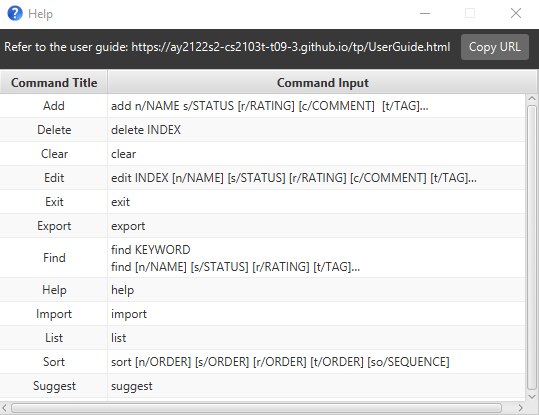
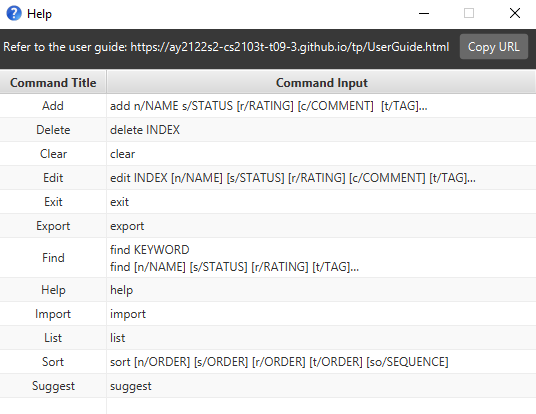
Update Help Window
Updated Help Window to not have horizontal and vertical scroll bars.

diff --git a/src/main/resources/view/HelpWindow.css b/src/main/resources/view/HelpWindow.css
@@ -17,3 +17,37 @@
 #helpMessageContainer {
     -fx-background-color: derive(#1d1d1d, 20%);
 }
+
+.table-view *.scroll-bar:horizontal *.increment-button,
+.table-view *.scroll-bar:horizontal *.decrement-button {
+    -fx-background-color: null;
+    -fx-background-radius: 0;
+    -fx-background-insets: 0;
+    -fx-padding: 0;
+}
+
+.table-view *.scroll-bar:horizontal *.increment-arrow,
+.table-view *.scroll-bar:horizontal *.decrement-arrow {
+    -fx-background-color: null;
+    -fx-background-radius: 0;
+    -fx-background-insets: 0;
+    -fx-padding: 0;
+    -fx-shape: null;
+}
+
+.table-view *.scroll-bar:vertical *.increment-button,
+.table-view *.scroll-bar:vertical *.decrement-button {
+    -fx-background-color: null;
+    -fx-background-radius: 0;
+    -fx-background-insets: 0;
+    -fx-padding: 0;
+}
+
+.table-view *.scroll-bar:vertical *.increment-arrow,
+.table-view *.scroll-bar:vertical *.decrement-arrow {
+    -fx-background-color: null;
+    -fx-background-radius: 0;
+    -fx-background-insets: 0;
+    -fx-padding: 0;
+    -fx-shape: null;
+}
